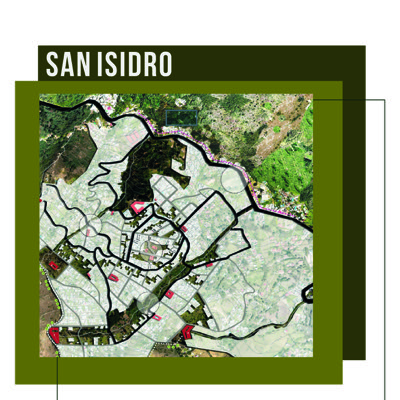
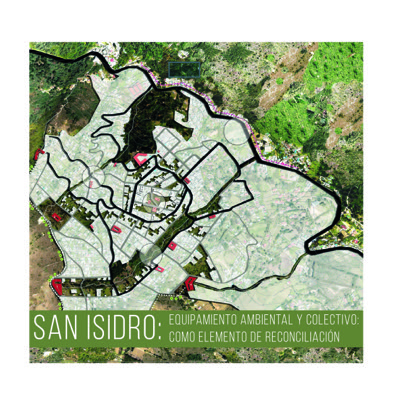
new squares

diff --git a/index.html b/index.html
@@ -199,7 +199,7 @@
 
             <a href="https://milenaor.github.io/portafolio/Urba/Portfolio-Milena%20Ortiz%20Torres-09.jpg" class="item-wrap">
               <span class="icon-add"></span>
-              <img class="img-fluid" src="images/squares/mbarranquilla.jpg">
+              <img class="img-fluid" src="images/squares/mdus.jpg">
             </a>
 
           </div>
@@ -246,7 +246,7 @@
           <div class="item cyl col-6 col-sm-6 col-md-6 col-lg-4 col-xl-4 mb-4">
             <a href="https://milenaor.github.io/portafolio/Cart/2.%20Manual%20de%20Dise%C3%B1o%20de%20Espacio%20p%C3%BAblico%20Barranquilla.pdf" class="item-wrap">
               <span class="icon-add"></span>
-              <img class="img-fluid" src="images/squares/barranquilla2.jpg">
+              <img class="img-fluid" src="images/squares/mdus.jpg">
             </a>
           </div>
 
